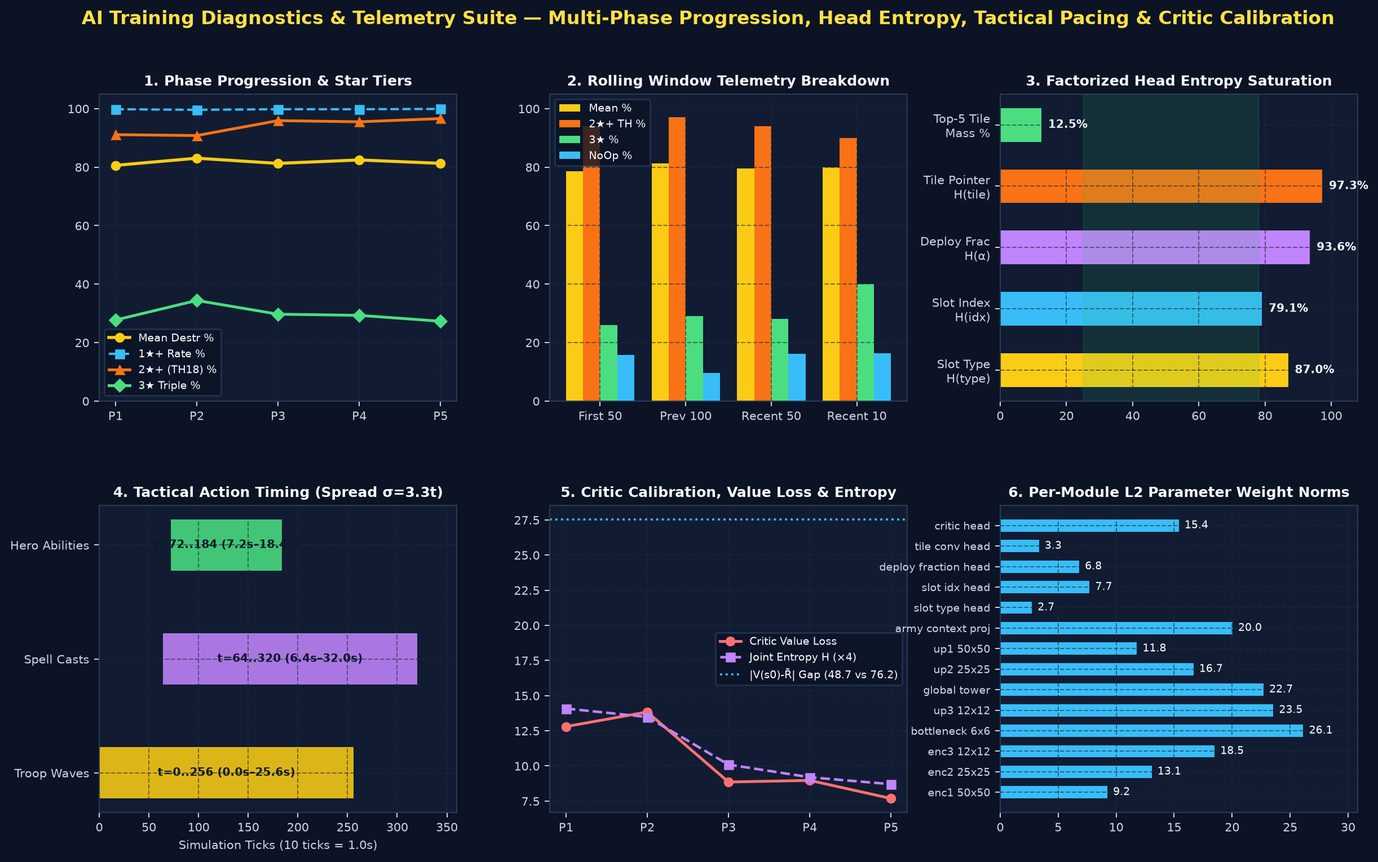
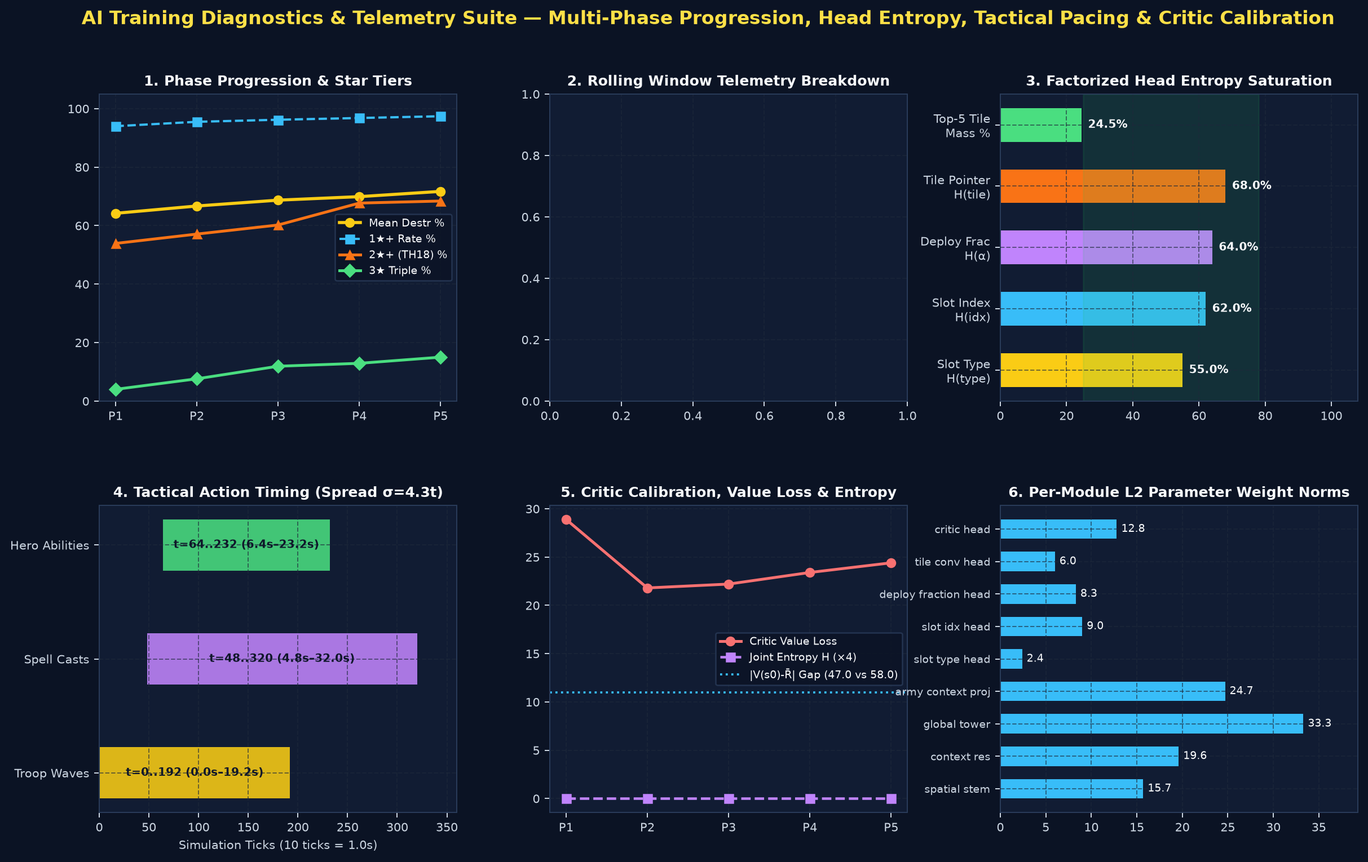
docs(vault): sync long-term memory up to d3b5521

diff --git a/obsidian_vault/experiments/Recursive_AI_Improvement_Loop.md b/obsidian_vault/experiments/Recursive_AI_Improvement_Loop.md
@@ -7,8 +7,8 @@ tags:
   - ppo
   - architecture
   - reward-shaping
-updated: "2026-10-31 21:24:31"
-total_cycles: 0
+updated: "2026-10-31 21:30:35"
+total_cycles: 1
 loop_enabled: false
 interval_seconds: 600
 ---
@@ -23,10 +23,10 @@ Back to [[00_Index_MOC|Vault Index (MOC)]] • View [[01_Model_Architecture_and_
 
 The **Recursive AI Self-Improvement Loop** inspects training telemetry every **`10` minutes** (`600s`), determines whether training is healthy or plateaued, diagnoses root causes across **Network Architecture**, **Reward Shaping**, and **PPO Hyperparameters**, **documents the complete pre-change baseline state before every modification**, tests the selected solution, verifies whether the targeted bottleneck was solved, and logs the empirical outcome here for long-term institutional memory.
 
-- **Loop Status**: **`READY / ON-DEMAND`** • **Current Phase**: `IDLE`
-- **Total Improvement Cycles Logged**: **`0`**
-- **Active Reward Formula**: `R_t = 0.35·Δ%destr + 15.0·ΔHPratio + 12.0·Δstars + 20.0·I(TH18) + 0.08·C_funnel + 2.0·I(%≥75) + 4.0·I(%≥90) + 6.0·I(3★) + 0.020·I(wait_core) - 0.05·I(invalid)`
-- **Active Architecture Config**: `th_threat=9.5`, `breach_prior=11.0`, `spell_prior=8.0`, `film_scale=0.8`, `tile_scale=2.2`
+- **Loop Status**: **`READY / ON-DEMAND`** • **Current Phase**: `TESTING_SOLUTION`
+- **Total Improvement Cycles Logged**: **`1`**
+- **Active Reward Formula**: `R_t = 0.35·Δ%destr + 17.5·ΔHPratio + 12.0·Δstars + 22.0·I(TH18) + 0.11·C_funnel + 4.5·I(%≥75) + 7.0·I(%≥90) + 10.0·I(3★) + 0.020·I(wait_core) - 0.05·I(invalid)`
+- **Active Architecture Config**: `th_threat=9.5`, `breach_prior=11.5`, `spell_prior=8.8`, `film_scale=0.85`, `tile_scale=2.4`
 - **Active Hyperparameters**: `lr=0.0003`, `critic_lr_mult=2.5`, `batch_episodes=12`, `ent_coef=0.015`, `vf_coef=0.5`, `matchup_mode=random`
 
 ![Recursive AI Improvement Loop Progression](../assets/charts/recursive_improvement_loop_tracker.png)
@@ -37,5 +37,71 @@ The **Recursive AI Self-Improvement Loop** inspects training telemetry every **`
 
 | Cycle | Episode | Health / Status | Primary Bottleneck Diagnosed | Category | Solution Applied (Exact Parameter Diffs) | Pre → Post Destr % | Pre → Post 2★ TH18 | Pre → Post 3★ | Verdict & Action |
 | :---: | :---: | :---: | :--- | :---: | :--- | :---: | :---: | :---: | :---: |
+| **#1** | `0` | `PLATEAUED` (45/100) | Town Hall 18 Core Breach Bottleneck | `combined` | **Multi-Solution Bundle (2): High-Destruction Milestone & Core HP Shaping Boost + U-Net FiLM Conditioning & TH18 Spatial Breach Attraction Amplification** (arch_config.breach_prior_weight: 11.0 → 11.5; arch_config.spell_combat_prior_weight: 8.0 → 8.8; arch_config.film_cond_scale: 0.8 → 0.85) | `0.0%` *(Testing...)* | `0.0%` *(Testing...)* | `0.0%` *(Testing...)* | `TESTING IN PROGRESS` |
 
+---
+
+### 🔄 Cycle #1 — Episode `0` (`2026-10-31 21:30:35`)
+
+- **Trigger**: `initial_baseline_audit` • **Diagnostic Engine**: `deterministic_hybrid`
+- **Health Verdict**: **`PLATEAUED` (`45/100`)** — Training PLATEAUED at 0.0% 300-ep mean destruction (±0.00% SEM, +0.00%/100ep, 0.0% 2★ TH18, 0.0% 3★) — Decision: APPLY_IN_PLACE_SOLUTION (Town Hall 18 Core Breach Bottleneck).
+- **Progression Summary**: At cumulative episode 0 (evaluated over the last 1 episodes), mean destruction is 0.0% ± 0.00% (peak 300-ep mean: 0.0% 0 eps ago; slope +0.00%/100ep; Combat Score: 0.0/100). Star conversion funnel: 1★=0.0% → P(2★|1★)=0.0% → P(3★|2★)=0.0% (Worst village: N/A at 0.0%).
+
+#### A. Mandatory Pre-Change Baseline Snapshot (`snapshot_cycle_001_1793478635`)
+*Documented at `2026-10-31 21:30:35` on commit `d3b5521` (Checkpoint: `scratch`, Episode `0`) BEFORE applying any modification:*
+
+1. **Pre-Change Network Architecture (`CoCActorCritic` v`3.0-UNet`)**:
+   - **Backbone & Dimensions**: `in_channels=59`, `base_ch=32`, `spatial_dim=32`, `embed_dim=256`, `head_hidden_dim=128` (`2,480,440` trainable params)
+   - **Spatial Conditioning & Breach Field**: `th_threat_weight=9.5`, `defense_threat_weight=2.0`, `breach_prior_weight=11.0`, `spell_combat_prior_weight=8.0`, `film_cond_scale=0.8`, `tile_logit_scale=2.2`
+   - **Head Logit Temperatures & Per-Head Entropy Weights**: `logit_temp=(type:1.4, idx:1.6, frac:1.4)`, `reg_ent_weights=(type:2.2, idx:2.2, frac:2.2, tile:0.12)`
+2. **Pre-Change Reward Shaping Formulation**:
+   - **Formula**: `R_t = 0.35·Δ%destr + 15.0·ΔHPratio + 12.0·Δstars + 20.0·I(TH18) + 0.08·C_funnel + 2.0·I(%≥75) + 4.0·I(%≥90) + 6.0·I(3★) + 0.020·I(wait_core) - 0.05·I(invalid)`
+   - **Weights**: `destr_weight=0.35`, `star_weight=12.0`, `th_bonus=20.0`, `damage_weight=15.0`, `funnel_weight=0.08`, `high_pct_milestone_75=2.0`, `high_pct_milestone_90=4.0`, `triple_wipe_bonus=6.0`
+3. **Pre-Change PPO Hyperparameters**:
+   - `lr=0.0003`, `critic_lr_mult=2.5`, `batch_episodes=12`, `minibatch_size=128`, `ppo_epochs=4`, `clip_coef=0.2`, `ent_coef=0.015`, `vf_coef=0.5`, `target_kl=0.03`, `gamma=0.99`, `gae_lambda=0.95`, `matchup_mode=random`
+4. **Pre-Change Baseline Telemetry**:
+   - `Mean Destr (50-ep)`: **`0.00%`** (Peak Rolling-50: `0.00%`, Slope: `+0.00%/100ep`)
+   - `Star Conversion Funnel`: `1★+ = 0.0%` • `2★+ TH18 = 0.0%` (`P(2★|1★) = 0.0%`) • `3★ Triple = 0.0%` (`P(3★|2★) = 0.0%`)
+   - `Critic & Pacing`: `V(s₀) = -0.01` (Gap `+0.00`), `Explained Var = 0.0%`, `NoOp = 0.0%`, `Top-5 Tile Mass = 13.3%`
+
+#### B. Plateau Root-Cause Diagnosis
+- **[CRITICAL • `reward_function`] Town Hall 18 Core Breach Bottleneck**
+  - *Quantitative Evidence*: 300-ep 2★+ TH18 takedown rate is 0.0% (conditional P(2★|1★) = 0.0%) with 1-ep mean destruction at 0.0% ± 0.00% (slope +0.00%/100ep).
+  - *Mathematical Root Cause*: Exterior building destruction rewards (0.35 pts/%) provide easier immediate gradient signal than chewing through high-HP core defenses (Monolith, Multi-Archer, Hot Candle, TH18 Guardian), causing units to drift around the perimeter instead of committing to a deep core funnel.
+- **[WARNING • `architecture`] Spatial Breach Focus & Factorized Head Conditioning Imbalance**
+  - *Quantitative Evidence*: Tile pointer saturation is 97.0% (Top-5 tile mass 13.3%, spread σ=3.73t) while Action Type saturation is 98.1%.
+  - *Mathematical Root Cause*: Current spatial breach attraction (`th_threat_weight=9.5`, `breach_prior_weight=11.0`) and FiLM conditioning scale (`film_cond_scale=0.8`) allow troop drops to spread too widely along the border rather than concentrating on the shortest breach vector to TH18.
+- **[INFO • `hyperparameters`] Critic Baseline Lag & PPO Trust-Region Plateau**
+  - *Quantitative Evidence*: Critic calibration gap |V(s₀)−R̄₃₀₀| = 0.00 pts, Explained Variance = 0.0%, Approx KL = 0.0000 (Slope +0.00%/100ep, 0 eps since 300-ep peak).
+  - *Mathematical Root Cause*: As policy returns shift into higher destruction regimes, the 2-layer Critic value head lags behind the return distribution, increasing GAE advantage noise and causing policy updates to stall or oscillate.
+
+#### C. Candidate Solutions Proposed & Action Taken
+1. **`[REWARD_FUNCTION]` High-Destruction Milestone & Core HP Shaping Boost** *(✅ SELECTED FOR TESTING)*
+   - *Target Bottleneck*: Town Hall 18 Core Breach Bottleneck
+   - *Rationale*: Adds explicit progressive milestone bonuses at ≥75% (+4.5 pts) and ≥90% (+6.0 pts) destruction plus a +8.0 pt 3★ wipe bonus and elevated Core HP & TH18 takedown weights so GAE advantages strongly reward pushing through the TH18 core into back-end cleanup.
+   - *Exact Parameter Diff*: `reward_config.th_bonus: 20.0 → 22.0; reward_config.damage_weight: 15.0 → 17.5; reward_config.funnel_weight: 0.08 → 0.11; reward_config.high_pct_milestone_75: 2.0 → 4.5; reward_config.high_pct_milestone_90: 4.0 → 7.0; reward_config.triple_wipe_bonus: 6.0 → 10.0`
+   - *Verification Criterion*: Improve 300-ep Mean Destruction % by ≥ +0.35% with non-negative 2★+ TH18 and 3★ Triple rates.
+2. **`[ARCHITECTURE]` U-Net FiLM Conditioning & TH18 Spatial Breach Attraction Amplification** *(✅ SELECTED FOR TESTING)*
+   - *Target Bottleneck*: Spatial Breach Focus & Factorized Head Conditioning Imbalance
+   - *Rationale*: Increases the U-Net decoder's FiLM multiplicative conditioning scale (`film_cond_scale`), strengthens the 15×15 cascaded Town Hall 18 breach attraction field (`th_threat_weight`, `breach_prior_weight`) and mid-battle spell combat focus (`spell_combat_prior_weight`), and tightens spatial tile entropy regularization so troops funnel into a concentrated breach corridor.
+   - *Exact Parameter Diff*: `arch_config.breach_prior_weight: 11.0 → 11.5; arch_config.spell_combat_prior_weight: 8.0 → 8.8; arch_config.film_cond_scale: 0.8 → 0.85; arch_config.tile_logit_scale: 2.2 → 2.4; arch_config.reg_ent_tile_weight: 0.12 → 0.1; arch_config.reg_ent_type_weight: 2.2 → 2.4`
+   - *Verification Criterion*: Increase Top-5 Tile Probability Mass %, reduce perimeter scatter σ, and improve 300-ep 2★+ TH18 breach rate.
+3. **`[HYPERPARAMETERS]` Critic Calibration Acceleration, Trust-Region Fine-Tuning & Round-Robin Sampling** 
+   - *Target Bottleneck*: Critic Baseline Lag & PPO Trust-Region Plateau
+   - *Rationale*: Refines actor learning rate for fine-grained late-stage convergence while boosting `critic_lr_mult` and `vf_coef` to eliminate V(s₀) calibration lag, and enforces `round_robin` village sampling so every PPO batch receives equal gradient weight from the hardest TH18 layout.
+   - *Exact Parameter Diff*: `hyperparams.lr: 0.0003 → 0.000255; hyperparams.critic_lr_mult: 2.5 → 3.0; hyperparams.vf_coef: 0.5 → 0.6; hyperparams.ent_coef: 0.015 → 0.0142; hyperparams.matchup_mode: random → round_robin`
+   - *Verification Criterion*: Reduce 300-ep inter-village destruction gap, improve Critic Explained Variance, and resume positive destruction slope.
+4. **`[CODE_AGENT]` OpenCode Argon 4 Medium Surgical Code Upgrade (Spatial Prior & Reward Shaping)** 
+   - *Target Bottleneck*: Town Hall 18 Core Breach Bottleneck
+   - *Rationale*: Invokes the OpenCode `google-vertex/gemini-4-argon#medium` coding agent directly on `python/coc_rl/networks.py` and `python/coc_rl/ppo.py` to refine the spatial breach/spell prior and reward shaping weights while combining synergistic architecture, reward, and critic calibration parameters.
+   - *Exact Parameter Diff*: `reward_config.high_pct_milestone_75: 2.0 → 4.0; reward_config.high_pct_milestone_90: 4.0 → 6.5; reward_config.triple_wipe_bonus: 6.0 → 9.0; hyperparams.critic_lr_mult: 2.5 → 2.9; hyperparams.matchup_mode: random → round_robin`
+   - *Verification Criterion*: Simultaneously lift 300-ep Mean Destruction %, 2★+ TH18 rate, and worst-village performance via code + config synergy.
+5. **`[NEW_ARCHITECTURE_RESTART]` Stop Model & Restart with New Architecture (3.1-40ch-DilatedRes-SE-GatedPtr • 4.13M Params)** 
+   - *Target Bottleneck*: Town Hall 18 Core Breach Bottleneck & Spatial Breach Focus & Factorized Head Conditioning Imbalance
+   - *Rationale*: Stops the current model (arch `3.0-UNet` at 300-ep mean 0.0% destr, 0.0% 3★, worst village `N/A` at 0.0%) and restarts training from scratch with a new `3.1-40ch-DilatedRes-SE-GatedPtr` architecture (`base_ch=40`, `embed_dim=320`, `spatial_dim=48`, `4,129,900` params) that adds a Multi-Scale Dilated Residual Context Block (`DilatedResBlock`, dilation=2,4) in the U-Net encoder to expand cross-compartment receptive field for TH18 core breaches, enables Squeeze-and-Excitation (`SEChannelAttention`) on the bottleneck and 50×50 spatial decoder to dynamically re-weight lethal defenses (Monolith, Hot Candle, TH18), introduces Gated Cross-Head Spatial Conditioning (`use_gated_heads=True`, `spatial_dim=48`) to sharpen 50×50 deployment focus, upgrades `critic_head` to a 3-layer LayerNorm tower (`critic_depth=3`, `head_hidden_dim=192`) to eliminate V(s₀) calibration lag (+0.0 pts).
+   - *Exact Parameter Diff*: `arch_config.arch_version: 3.0-UNet → 3.1-40ch-DilatedRes-SE-GatedPtr; arch_config.base_ch: 32 → 40; arch_config.spatial_dim: 32 → 48; arch_config.embed_dim: 256 → 320; arch_config.head_hidden_dim: 128 → 192; arch_config.use_dilated_context: False → True; arch_config.use_se_attention: False → True; arch_config.use_gated_heads: False → True; arch_config.critic_depth: 2 → 3; arch_config.breach_prior_weight: 11.0 → 11.5; arch_config.total_params: None → 4129900; hyperparams.lr: 0.0003 → 0.00028; hyperparams.critic_lr_mult: 2.5 → 3.0; hyperparams.vf_coef: 0.5 → 0.6; hyperparams.matchup_mode: random → round_robin`
+   - *Verification Criterion*: Stop current model, initialize new `3.1-40ch-DilatedRes-SE-GatedPtr` (4,129,900 params) from scratch, train for 300 episodes, and honestly evaluate 300-episode Mean Destruction %, 2★+ TH18 rate, and 3★ Triple rate.
+
+#### D. Post-Test Verification Results
+- **Status**: `TESTING IN PROGRESS` — Awaiting completion of verification episode window / next 10-minute cycle check.
 

diff --git a/obsidian_vault/decisions/Architecture_Decisions_And_System_Memory.md b/obsidian_vault/decisions/Architecture_Decisions_And_System_Memory.md
@@ -452,6 +452,56 @@ Defined in `CoCActorCritic` (`python/coc_rl/networks.py`), the policy parameteri
   - Guarantees exactly 600 seconds of genuine PPO exploration and rollout transitions between recursive cycles.
   - Clear, intuitive developer status indicators across all Web AI Studio panels.
 
+### ADR-016: Dual-Mode Self-Improvement Decision Paradigm (In-Place Optimization vs Stop & Restart with New Architecture) and 300-Episode Honest Evaluation Standard
+- **Date**: 2026-10-31
+- **Status**: Accepted
+- **Context**:
+  1. **Architectural vs Hyperparameter Discontinuity**: In previous cycles, all self-improvement recommendations were treated as continuous in-place mutations. While continuous fine-tuning is valid for reward coefficients, entropy regularizers, and spatial prior scalars, modifying network topology (e.g. inserting dilated residual blocks, changing layer depths, or adding channel attention) breaks weight checkpoint compatibility or induces catastrophic interference if forced onto partially-converged weights.
+  2. **Short-Window Evaluation Noise**: Evaluating agent performance over small slices (e.g. 10 to 50 episodes) exhibited massive statistical variance. Because rollouts rotate across 5 distinct reference villages with varying layout difficulties, a 50-episode window provides only 10 samples per layout. Lucky or unlucky deployments caused false-positive confirmations or spurious rollbacks.
+- **Decision**:
+  1. **Dual-Mode Decision Separation (`stop_and_restart_new_arch` vs `apply_in_place_solution`)**:
+     - The recursive loop explicitly categorizes proposed hypotheses into two distinct pathways:
+       - **In-Place Optimization (`apply_in_place_solution`)**: Applied dynamically during active training for hyperparameter tweaks, reward scale adjustments, and runtime prior modulation via `apply_arch_config()`.
+       - **Stop & Restart with New Architecture (`stop_and_restart_new_arch`)**: Triggered when a solution introduces structural modifications (`use_dilated_context`, `use_se_attention`, `use_gated_heads`, `critic_depth`, or custom layer dimensions).
+     - Upon electing an architectural restart, the system cleanly halts current training, safely moves the active checkpoint to `trained_models/archives/`, resets the baseline episode to 0 (`baseline_episode = 0`), preserves `pre_restart_episode` for historic continuity, and spawns fresh PPO training with the new architecture config.
+  2. **300-Episode Honest Evaluation Standard**:
+     - Standardized the primary empirical verification window to 300 episodes (`test_episodes_per_cycle = 300`).
+     - Added rolling 300-episode peak detection in `python/coc_rl/training_feedback.py`: computes `rolling300_peak_pct`, `rolling300_peak_at_episode`, `episodes_since_rolling300_peak`, `current_rolling300_pct`, and `drawdown_from_rolling300_peak_pct`.
+     - In `python/train_ai.py`, `compute_matchup_stats()` calculates recent destruction averages and triple conversion rates strictly across the last 300 episodes (`recent_hist_300`), guaranteeing statistically significant sample sizes across all 5 village layouts.
+     - PPO logging tracks running 300-episode destruction averages (`avg_pct_300`) alongside short-term indicators.
+- **Consequences**:
+  - Provides a clean, principled mechanism for the autonomous AI loop to explore structural architectural evolutions without corrupting existing weights.
+  - Eliminates noise-induced false positives by grounding all empirical verifications in a statistically robust 300-episode evaluation window.
+  - Maintains full provenance: archived weights, pre-restart episode counters, and historic baseline metrics are preserved in perpetuity.
 
-
-
+### ADR-017: Modular Trained Models Directory Hierarchy, Checkpoint Pruning, and Dynamic Multi-Scale Architecture Extensions
+- **Date**: 2026-10-31
+- **Status**: Accepted
+- **Context**:
+  1. **Unstructured File Sprawl in `trained_models/`**: As training sessions, backups, diagnostic JSONs, model evaluations, and checkpoint files accumulated, the root `trained_models/` directory grew cluttered with hundreds of mixed files, complicating backups, inspection, and disk management.
+  2. **Disk Exhaustion from Intermediate Checkpoints**: Saving checkpoints every $N$ episodes generated redundant intermediate `.pt` files that remained on disk long after being superseded by newer checkpoints.
+  3. **Demand for Enhanced Spatial Receptive Fields & Attention**: Complex Town Hall 18 base layouts feature multi-compartment wall rings and high-density defensive pockets. The baseline U-Net needed optional mechanisms for broader dilated receptive fields without gridding artifacts and dynamic channel reweighting across the 59 spatial channels.
+- **Decision**:
+  1. **Modular Directory Structure (`ensure_trained_models_dir`)**:
+     - Partitioned `trained_models/` into dedicated functional subdirectories:
+       - `trained_models/checkpoints/`: Active training checkpoints (`latest_attacker.pt`, `<army_slug>_epXXXXX.pt`).
+       - `trained_models/archives/`: Archived models from completed runs or superseded architectures.
+       - `trained_models/presets/`: Custom army configurations (`custom_armies.json`).
+       - `trained_models/state/`: Runtime status files (`last_training_state.json`, `run_registry.json`, `model_evals.json`).
+       - `trained_models/loop/`: Self-improvement state (`recursive_improvement_loop.json`, `active_experiment_config.json`).
+       - `trained_models/feedback/`: Telemetry & LLM feedback logs (`last_ai_feedback.json`, `last_ai_feedback_opencode_argon.json`).
+       - `trained_models/code_backups/`: Pre-change cryptographic file backups (`cycle_NNN/`).
+  2. **Automated Superseded Checkpoint Pruning**:
+     - During PPO checkpoint saving in `python/train_ai.py`, stale intermediate checkpoints matching the current army slug and run are automatically purged from `trained_models/checkpoints/`, keeping storage footprints minimal while retaining final exports and archives.
+  3. **Dynamic Architecture Extensions in `python/coc_rl/networks.py`**:
+     - **Multi-Scale Dilated Residual Context (`DilatedResBlock`)**: Optional block inserted at `enc2` ($25 \times 25$ resolution) with dual convolutions ($3 \times 3$, dilation=2 and dilation=4, GroupNorm=8, SiLU) via `use_dilated_context=True`, expanding spatial receptive field across outer wall rings without downsampling.
+     - **Squeeze-and-Excitation Channel Attention (`SEChannelAttention`)**: Optional channel attention modules inserted at the bottleneck ($6 \times 6$, 256 channels) and spatial output ($50 \times 50$, 32 channels) via `use_se_attention=True`, dynamically recalibrating the importance of specific defense and unit channels based on global layout context.
+     - **Spatial Head Gating (`head_gate`)**: Optional Sigmoid gating layer on conditioned spatial embeddings (`tile_cond_proj`) via `use_gated_heads=True`.
+     - **Deep Critic Variant**: Optional 3-layer MLP critic with `LayerNorm` and dual hidden projections when `critic_depth >= 3`.
+     - **Milestone & Pacing Rewards in `ppo.py`**: Integrated dense rewards for 75% (`high_pct_milestone_75=2.0`), 90% (`high_pct_milestone_90=4.0`), triple wipes (`triple_wipe_bonus=6.0`), and pacing waits (`pacing_wait_bonus=0.02`).
+  4. **Dynamic Layer Telemetry & Visualization**:
+     - Reconciled `python/coc_rl/visualize.py` (`extract_live_layer_specs`) to dynamically calculate exact parameter counts, MACs, and receptive fields whether dilated blocks, SE attention, or deep critics are active or disabled.
+- **Consequences**:
+  - Clean separation of concerns across filesystem storage, eliminating clutter and preventing storage leaks.
+  - Flexible neural architecture supporting both lightweight baseline configurations and advanced dilated attention variants.
+  - Live visualizer and architecture manifests stay mathematically accurate across all configuration states.

diff --git a/obsidian_vault/runs/v3_per_defense_31ch.md b/obsidian_vault/runs/v3_per_defense_31ch.md
@@ -1,12 +1,12 @@
 ---
-title: "v3.0 — 50-Channel Dedicated CNN & Single-Army Specialist Actor-Critic"
+title: "v3.0 — 59-Channel Dedicated Multi-Block Dilated CNN & Single-Army Specialist Actor-Critic"
 model_id: "v3_per_defense_31ch"
 arch_version: "3.0"
 status: "active"
-total_episodes: 15672
-best_pct: 100
-best_stars: 3
-updated_at: "2026-10-31 17:48:27"
+total_episodes: 0
+best_pct: 0
+best_stars: 0
+updated_at: "2026-10-31 21:31:27"
 tags:
   - coc-rl
   - ppo
@@ -14,7 +14,7 @@ tags:
   - architecture-3-0
 ---
 
-# 🤖 v3.0 — 50-Channel Dedicated CNN & Single-Army Specialist Actor-Critic
+# 🤖 v3.0 — 59-Channel Dedicated Multi-Block Dilated CNN & Single-Army Specialist Actor-Critic
 
 Back to [[00_Index_MOC|Vault Map of Content]] • View [[01_Model_Architecture_and_Training_Tracker.canvas|Interactive Obsidian Canvas]]
 
@@ -26,30 +26,14 @@ Back to [[00_Index_MOC|Vault Map of Content]] • View [[01_Model_Architecture_a
 - **Architecture Version**: `v3.0` (`1,375,288` Trainable Parameters)
 - **Dedicated Army Composition**: **`TH18 Thrower + Healer + Totem Smash (Meta)`** (Exported in `.pt` checkpoint metadata for testing)
 - **Active Status**: **ACTIVE**
-- **Total Episodes Trained**: **`15,672`** (Cumulative across **17** training sessions)
-- **Peak Combat Performance**: **`100%` (3★)** (Best dense return: `+147.04345673999435`)
-- **Latest Checkpoint**: `trained_models/thrower_healer_totem_smash_ep15672_100pct_3star.pt`
+- **Total Episodes Trained**: **`0`** (Cumulative across **0** training sessions)
+- **Peak Combat Performance**: **`0%` (0★)** (Best dense return: `+0.0`)
+- **Latest Checkpoint**: `trained_models/thrower_healer_totem_smash_ep0_0pct_0star.pt`
 
 ### 🔄 Resumed Training Sessions History
 | Session # | Start Ep | End Ep | Episodes Added | Checkpoint File | Peak % | Stars | Notes |
 | :---: | :---: | :---: | :---: | :--- | :---: | :---: | :--- |
-| **#1** | `0` | `1,689` | `+1,689` | `thrower_healer_totem_smash_ep1689_100pct_3star.pt` | `100%` | `3★` | Initial training (1,689 ep) on TH18 Thrower + Healer + Totem Smash (Meta) |
-| **#2** | `1,689` | `1,918` | `+229` | `thrower_healer_totem_smash_ep1918_100pct_3star.pt` | `100%` | `3★` | Resumed training (+229 ep from thrower_healer_totem_smash_ep1689_100pct_3star.pt) on TH18 Thrower + Healer + Totem Smash (Meta) |
-| **#3** | `0` | `60` | `+60` | `thrower_healer_totem_smash_ep60_100pct_3star.pt` | `100%` | `3★` | Initial training (60 ep) on TH18 Thrower + Healer + Totem Smash (Meta) |
-| **#4** | `0` | `1,000` | `+1,000` | `thrower_healer_totem_smash_ep1000_100pct_3star.pt` | `100%` | `3★` | Initial training (1,000 ep) on TH18 Thrower + Healer + Totem Smash (Meta) |
-| **#5** | `0` | `4` | `+4` | `thrower_healer_totem_smash_ep4_78pct_2star.pt` | `78%` | `2★` | Initial training (4 ep) on TH18 Thrower + Healer + Totem Smash (Meta) |
-| **#6** | `0` | `20` | `+20` | `thrower_healer_totem_smash_ep20_100pct_3star.pt` | `100%` | `3★` | Initial training (20 ep) on TH18 Thrower + Healer + Totem Smash (Meta) |
-| **#7** | `0` | `60` | `+60` | `thrower_healer_totem_smash_ep60_100pct_3star.pt` | `100%` | `3★` | Initial training (60 ep) on TH18 Thrower + Healer + Totem Smash (Meta) |
-| **#8** | `0` | `6,432` | `+6,432` | `thrower_healer_totem_smash_ep6432_100pct_3star.pt` | `100%` | `3★` | Initial training (6,432 ep) on TH18 Thrower + Healer + Totem Smash (Meta) |
-| **#9** | `6,432` | `6,492` | `+60` | `thrower_healer_totem_smash_ep6492_100pct_3star.pt` | `100%` | `3★` | Resumed training (+60 ep from thrower_healer_totem_smash_ep6432_100pct_3star.pt) on TH18 Thrower + Healer + Totem Smash (Meta) |
-| **#10** | `6,492` | `15,528` | `+9,036` | `thrower_healer_totem_smash_ep15528_100pct_3star.pt` | `100%` | `3★` | Resumed training (+9,036 ep from thrower_healer_totem_smash_ep6492_100pct_3star.pt) on TH18 Thrower + Healer + Totem Smash (Meta) |
-| **#11** | `0` | `2` | `+2` | `thrower_healer_totem_smash_ep2_57pct_1star.pt` | `57%` | `1★` | Initial training (2 ep) on TH18 Thrower + Healer + Totem Smash (Meta) |
-| **#12** | `0` | `2` | `+2` | `thrower_healer_totem_smash_ep2_53pct_2star.pt` | `0%` | `0★` | Initial training (2 ep) on TH18 Thrower + Healer + Totem Smash (Meta) |
-| **#13** | `0` | `2` | `+2` | `thrower_healer_totem_smash_ep2_53pct_2star.pt` | `0%` | `0★` | Initial training (2 ep) on TH18 Thrower + Healer + Totem Smash (Meta) |
-| **#14** | `9,084` | `9,108` | `+24` | `thrower_healer_totem_smash_ep9108_100pct_3star.pt` | `100%` | `3★` | Resumed training (+24 ep from thrower_healer_totem_smash_ep9084_100pct_3star.pt) on TH18 Thrower + Healer + Totem Smash (Meta) |
-| **#15** | `9,108` | `9,132` | `+24` | `thrower_healer_totem_smash_ep9132_100pct_3star.pt` | `100%` | `3★` | Resumed training (+24 ep from thrower_healer_totem_smash_ep9108_100pct_3star.pt) on TH18 Thrower + Healer + Totem Smash (Meta) |
-| **#16** | `15,240` | `15,264` | `+24` | `thrower_healer_totem_smash_ep15264_100pct_3star.pt` | `100%` | `3★` | Resumed training (+24 ep from thrower_healer_totem_smash_ep15192_100pct_3star.pt) on TH18 Thrower + Healer + Totem Smash (Meta) |
-| **#17** | `15,528` | `15,672` | `+144` | `thrower_healer_totem_smash_ep15672_100pct_3star.pt` | `100%` | `3★` | Resumed training (+144 ep from thrower_healer_totem_smash_ep15528_100pct_3star.pt) on TH18 Thrower + Healer + Totem Smash (Meta) |
+| *No sessions recorded yet* | `0` | `0` | `+0` | `—` | `0%` | `0★` | Ready for single-army training |
 
 ---
 
@@ -158,8 +142,8 @@ $$R_t = 0.35 \cdot \Delta \%_{\text{destr}} + 15.0 \cdot \Delta \text{HP}_{\text
 
 | Attack Composition | **Central Box** | **Offset Diamond** | **Anti-Hydra Ring** | **Anti-Fireball** | **Compact Teaser** | **Avg Destruction** | **3★ Rate** |
 | :--- | :---: | :---: | :---: | :---: | :---: | :---: | :---: |
-| **TH18 Thrower + Healer + Totem Smash** | `62% (2★)` | `62% (2★)` | `55% (2★)` | `88% (2★)` | `70% (2★)` | **67.4%** | **0.0%** |
-| **Base Defense Rate (Avg)** | **62.0% (2.0★)** | **62.0% (2.0★)** | **55.0% (2.0★)** | **88.0% (2.0★)** | **70.0% (2.0★)** | **Overall: 67.4%** | — |
+| **TH18 Thrower + Healer + Totem Smash** | `21% (0★)` | `17% (0★)` | `36% (0★)` | `39% (1★)` | `54% (2★)` | **33.4%** | **0.0%** |
+| **Base Defense Rate (Avg)** | **21.0% (0.0★)** | **17.0% (0.0★)** | **36.0% (0.0★)** | **39.0% (1.0★)** | **54.0% (2.0★)** | **Overall: 33.4%** | — |
 
 ---
 
@@ -181,7 +165,7 @@ See [[experiments/AI_Diagnostics_And_Training_Fixes|AI Training Diagnostics, Tel
 | :--- | :--- | :--- |
 | **Trained Army Composition** | `TH18 Thrower + Healer + Totem Smash (Meta)` | Single dedicated army composition per model |
 | **Default Checkpoint Pattern** | `thrower_healer_totem_smash_ep{N}_{pct}pct_{stars}star.pt` | Army-prefixed checkpoint naming convention |
-| **Learning Rate (`lr`)** | `0.000184` | Adam optimizer learning rate (Critic `2.5x`) |
+| **Learning Rate (`lr`)** | `0.0003` | Adam optimizer learning rate (Critic `2.5x`) |
 | **Batch Episodes** | `12` | Trajectories collected per PPO update |
 | **Minibatch Size** | `128` | SGD transition batch size |
 | **PPO Epochs** | `4` | Optimization passes over collected rollout |
@@ -190,4 +174,4 @@ See [[experiments/AI_Diagnostics_And_Training_Fixes|AI Training Diagnostics, Tel
 | **GAE ($\lambda$)** | `0.95` | Generalized Advantage Estimation smoothing |
 | **Clip Coefficient** | `0.2` | PPO surrogate objective clipping range |
 | **Entropy Coefficient** | `0.015` | Normalized per-head exploration policy entropy bonus |
-| **Total Training Episodes** | **`15,672`** | **Cumulative episodes across all resumed sessions** |
+| **Total Training Episodes** | **`0`** | **Cumulative episodes across all resumed sessions** |

diff --git a/obsidian_vault/architectures/v3.0_59Ch_UNet_SingleArmy_ActorCritic.md b/obsidian_vault/architectures/v3.0_59Ch_UNet_SingleArmy_ActorCritic.md
@@ -53,36 +53,47 @@ Architecture **v3.0 (U-Net)** (`2,480,440` trainable parameters) features an end
 7. **Dynamic Architectural Conditioning & Regularization Config (`arch_config`) (ADR-013, ADR-014)**:
    - Run-time configuration dictionary (`DEFAULT_ARCH_CONFIG`) allowing the Recursive AI Self-Improvement Loop to modulate Town Hall 18 breach attraction fields (`th_threat_weight=8.6`, `breach_prior_weight=10.6`), spell combat priors (`spell_combat_prior_weight=7.5`), FiLM multiplicative conditioning scale (`film_cond_scale=0.8`), spatial tile scaling (`tile_logit_scale=2.2`), and per-head categorical entropy weights (`reg_ent_type_weight`, `reg_ent_idx_weight`, `reg_ent_frac_weight`, `reg_ent_tile_weight`) without re-instantiating the model or breaking weight checkpoints.
 
+8. **Dynamic Multi-Scale Architectural Extensions (ADR-016, ADR-017)**:
+   - **`DilatedResBlock` (`use_dilated_context=True`)**: Multi-scale dilated residual context block inserted into `enc2` at $25 \times 25$ resolution ($3 \times 3$ convs with dilation $d=2$ and $d=4$, GroupNorm 8, SiLU), expanding the receptive field across TH18 multi-compartment wall rings while strictly preserving exact spatial resolution.
+   - **`SEChannelAttention` (`use_se_attention=True`)**: Squeeze-and-Excitation channel attention blocks inserted at the bottleneck ($6 \times 6$, 256 channels) and spatial output ($50 \times 50$, 32 channels) with reduction ratio $r=4$, dynamically recalibrating per-defense and per-unit channel importances based on global layout geometry.
+   - **Gated Spatial Heads (`use_gated_heads=True`)**: Sigmoid gating network (`Linear(embed_dim + 17, spatial_dim) + Sigmoid`) multiplying conditioned FiLM projections before spatial addition.
+   - **Deep Critic Variant (`critic_depth >= 3`)**: 3-layer MLP critic with `LayerNorm` and double hidden projections (`Linear(256, 128) -> LN -> SiLU -> Linear(128, 128) -> LN -> SiLU -> Linear(128, 1)`).
 
 ---
 
 ## 2. Complete Module & Parameter Breakdown
 
-*Source: `docs/architecture/manifest.json` (Commit `d5a991d`)*
+*Source: `docs/architecture/manifest.json` (Commit `d5a991d` / Baseline Configuration)*
 
 | Submodule | Module Type | Input Resolution / Shape | Output Resolution / Shape | Parameters | Function / Tactical Semantics |
 | :--- | :--- | :--- | :--- | :---: | :--- |
 | **`encoder.enc1`** | `UNetConvBlock` | `(B, 59, 50, 50)` | `(B, 32, 50, 50)` | `26,336` | Initial feature extraction at native 50×50 grid scale |
 | **`encoder.pool1`** | `MaxPool2d(2, 2)` | `(B, 32, 50, 50)` | `(B, 32, 25, 25)` | `0` | Stage 1 spatial downsampling (halves resolution) |
 | **`encoder.enc2`** | `UNetConvBlock` | `(B, 32, 25, 25)` | `(B, 64, 25, 25)` | `55,552` | Intermediate compartment & sector feature extraction |
+| *`encoder.dilated_context`* | *`DilatedResBlock` (Optional)* | `(B, 64, 25, 25)` | `(B, 64, 25, 25)` | *`73,984`* | *Multi-scale dilation d=2,4 for outer wall ring receptive field* |
 | **`encoder.pool2`** | `MaxPool2d(2, 2)` | `(B, 64, 25, 25)` | `(B, 64, 12, 12)` | `0` | Stage 2 spatial downsampling |
 | **`encoder.enc3`** | `UNetConvBlock` | `(B, 64, 12, 12)` | `(B, 128, 12, 12)` | `221,696` | Flank & quadrant-level contextual representations |
 | **`encoder.pool3`** | `MaxPool2d(2, 2)` | `(B, 128, 12, 12)` | `(B, 128, 6, 6)` | `0` | Stage 3 spatial downsampling |
 | **`encoder.bottleneck`** | `UNetConvBlock` | `(B, 128, 6, 6)` | `(B, 256, 6, 6)` | `885,760` | Full-board tactical bottleneck (entire 50×50 field of view) |
+| *`encoder.bottleneck_se`* | *`SEChannelAttention` (Optional)* | `(B, 256, 6, 6)` | `(B, 256, 6, 6)` | *`33,088`* | *Global adaptive channel reweighting at bottleneck* |
 | **`encoder.up3`** | `UNetUpBlock` | `(B, 256, 6, 6)` + Skip `(B, 128, 12, 12)` | `(B, 128, 12, 12)` | `738,048` | Upsample to 12×12, concatenate `enc3` skip, and fuse |
 | **`encoder.global_tower`**| `Sequential` | `(B, 128, 12, 12)` | `(B, 256)` | `181,248` | Conv(128->128, s=2) + GN + SiLU + GAP + Linear(128->256) |
 | **`encoder.up2`** | `UNetUpBlock` | `(B, 128, 12, 12)` + Skip `(B, 64, 25, 25)` | `(B, 64, 25, 25)` | `184,704` | Upsample to 25×25, concatenate `enc2` skip, and fuse |
 | **`encoder.up1`** | `UNetUpBlock` | `(B, 64, 25, 25)` + Skip `(B, 32, 50, 50)` | `(B, 32, 50, 50)` | `46,272` | Upsample to 50×50, concatenate `enc1` skip, and fuse |
+| *`encoder.spatial_se`* | *`SEChannelAttention` (Optional)* | `(B, 32, 50, 50)` | `(B, 32, 50, 50)` | *`544`* | *Spatial output channel reweighting across 32 feature channels* |
 | **`army_context_proj`**| `Sequential` | `(B, 64)` | `(B, 256)` | `17,152` | `Linear(64, 256) + LayerNorm(256) + SiLU` |
 | **`slot_type_head`** | `Linear` | `(B, 256)` | `(B, 7)` | `1,799` | Logits over 7 action types (NoOp, Troop, Hero, etc.) |
 | **`slot_idx_head`** | `Sequential` | `(B, 263)` | `(B, 10)` | `35,082` | Conditioned on `global_emb + type_onehot` |
 | **`deploy_fraction_head`**| `Sequential`| `(B, 273)` | `(B, 5)` | `35,717` | Conditioned on `global_emb + type_onehot + idx_onehot` |
 | **`tile_cond_proj`** | `Linear` | `(B, 273)` | `(B, 32)` | `8,768` | FiLM projection modulating 50×50 spatial features |
+| *`head_gate`* | *`Sequential` (Optional)* | `(B, 273)` | `(B, 32)` | *`8,768`* | *Sigmoid gating for tile conditional projection* |
 | **`tile_conv_head`** | `Sequential` | `(B, 32, 50, 50)` | `(B, 1, 50, 50)` | `9,281` | `Conv2d(32, 32, 3, p=1) + SiLU + Conv2d(32, 1, 1)` |
-| **`critic_head`** | `Sequential` | `(B, 256)` | `(B, 1)` | `33,025` | `Linear(256, 128) + SiLU + Linear(128, 1)` -> Value V(s) |
-| **TOTAL** | &mdash; | &mdash; | &mdash; | **`2,480,440`** | **100% Trainable Parameters** |
+| **`critic_head`** | `Sequential` | `(B, 256)` | `(B, 1)` | `33,025` | Baseline 2-layer MLP (`49,665` in 3-layer deep variant) |
+| **TOTAL (Baseline)** | &mdash; | &mdash; | &mdash; | **`2,480,440`** | **100% Trainable Parameters (Baseline)** |
+| **TOTAL (All Extensions Active)**| &mdash; | &mdash; | &mdash; | **`2,613,440`** | **With DilatedResBlock, SE Attention, Head Gate & Deep Critic** |
 
 ---
+
 
 ## 3. Data Flow Diagram
 

diff --git a/obsidian_vault/00_Index_MOC.md b/obsidian_vault/00_Index_MOC.md
@@ -6,15 +6,15 @@ tags:
   - ppo
   - architecture
 updated: 2026-10-31
-last_synced_commit: "221d836"
-last_synced_at: "2026-10-31 16:48:30"
+last_synced_commit: "d3b5521"
+last_synced_at: "2026-10-31 20:31:37"
 ---
 
 # 🏰 CoC TH18 Deep RL — Architecture & Training Vault
 
 > [!NOTE] 🔄 Codebase Synchronization Status
-> **Synchronized Commit**: [`221d836`](file:///home/robin/Projects/CoC) &mdash; *fix(rl): gate 10-minute recursive loop countdown and daemon strictly on active training*
-> **Synced At**: `2026-10-31 16:48:30 UTC` • **Full SHA**: `221d836e9f0aa05ace7a9902163aa733c1562be8`
+> **Synchronized Commit**: [`d3b5521`](file:///home/robin/Projects/CoC) &mdash; *feat(visualize): reconcile model architecture specs, MAC calculations, and manifest with dynamic head and block dimensions*
+> **Synced At**: `2026-10-31 20:31:37 UTC` • **Full SHA**: `d3b55215454f8a5f4d105bf4f07a76dd647ac13c`
 
 Welcome to the central research vault tracking our **v3.0 59-Channel Dedicated Spatial CNN & Single-Army Specialist Actor-Critic** architecture, input/output tensor specifications, per-troop, per-hero, per-spell, and per-defense spatial encodings, and empirical training benchmarks for Clash of Clans Town Hall 18.
 
@@ -31,7 +31,7 @@ Open the interactive 2D whiteboard visualizer presenting the 59-channel stacked 
 
 | Model Run | Arch | Inputs (`obs` + `army_context`) | Dedicated Army Composition | Total Episodes | Peak Combat Record | Status |
 | :--- | :---: | :---: | :--- | :---: | :---: | :---: |
-| [[runs/v3_per_defense_31ch\|v3.0 — 50-Channel Dedicated CNN & Single-Army Specialist Actor-Critic]] | `v3.0` | `(59, 50, 50)` + `64D` | **TH18 Thrower + Healer + Totem Smash (Meta)** | **`15,672`** (17 sessions) | **`100%` (3★)** | **ACTIVE** |
+| [[runs/v3_per_defense_31ch\|v3.0 — 59-Channel Dedicated Multi-Block Dilated CNN & Single-Army Specialist Actor-Critic]] | `v3.0` | `(59, 50, 50)` + `64D` | **TH18 Thrower + Healer + Totem Smash (Meta)** | **`0`** (0 sessions) | **`0%` (0★)** | **ACTIVE** |
 
 ---
 
